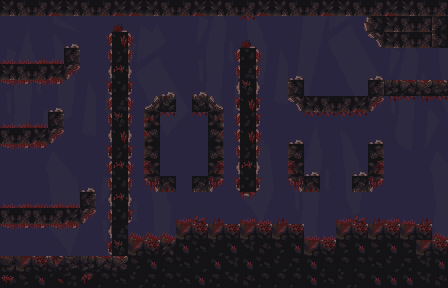
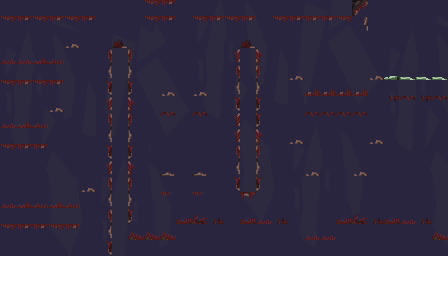
bug fix for last commit

diff --git a/game-01.js b/game-01.js
@@ -99,7 +99,7 @@ Game.World = function(friction = 0.9, gravity = 2) {
    
   this.map = [3848,3849,3850,3851,3848,3849,3850,3851,3851,3848,3849,3850,3851,3848,3849,3850,3851,3848,3849,3850,3851,3848,3849,5634,6566,6567,6566,6566,
     -1,-1,-1,-1,-1,-1,-1,-1,-1,-1,-1,-1,-1,-1,-1,-1,-1,-1,-1,-1,-1,-1,-1,5888,6566,6567,6568,6566,
-    -1,-1,-1,-1,-1,-1,-1,3435,-1,-1,-1,-1,-1,-1,-1,-1,-1,-1,-1,-1,-1,-1,-1,5802,6650,6651,6652,6650,
+    -1,-1,-1,-1,-1,-1,-1,-1,-1,-1,-1,-1,-1,-1,-1,-1,-1,-1,-1,-1,-1,-1,-1,5802,6650,6651,6652,6650,
     3764,3765,3766,3767,3768,-1,-1,3519,-1,-1,-1,-1,-1,-1,-1,3687,-1,-1,-1,-1,-1,-1,-1,-1,-1,-1,-1,-1,
     3848,3849,3850,3851,3852,-1,-1,3603,-1,-1,-1,-1,-1,-1,-1,3771,-1,-1,-1,-1,-1,-1,-1,-1,-1,-1,-1,-1,
     -1,-1,-1,-1,-1,-1,-1,3687,-1,-1,-1,-1,-1,-1,-1,3855,-1,-1,3763,3764,3765,3766,3767,3768,5144,5145,5146,5147,
@@ -114,7 +114,7 @@ Game.World = function(friction = 0.9, gravity = 2) {
     -1,-1,-1,-1,-1,-1,-1,3771,-1,-1,-1,2831,2832,2831,2832,2831,2832,2831,2832,-1,-1,2831,2832,2831,2832,2831,2832,-1,
     -1,-1,-1,-1,-1,-1,-1,3855,2831,2832,3512,2916,2921,2922,2916,2924,2925,2915,2916,2831,2832,2915,2916,2915,2916,2915,2831,2832,
     2830,2831,2832,2833,2834,2835,2836,2837,2915,2916,2920,2921,2922,2916,2924,2916,2921,2922,2923,2916,2920,2920,2920,2921,2922,2923,2924,2916,
-    2914,2915,2916,2917,2918,2919,2920,2921,2922,2923,2920,2921,2916,2923,2924,2925,2920,2920,2920,2916,2921,2922,2920,2916,2916,2916,2924,2925];
+    2914,2915,2916,2917,2918,2919,2920,2921,2922,2923,2920,2921,2916,2923,2924,2925,2920,2920,2920,2916,2921,2922,2920,2916,2916,2916,2924,2925,];
 
 
 
